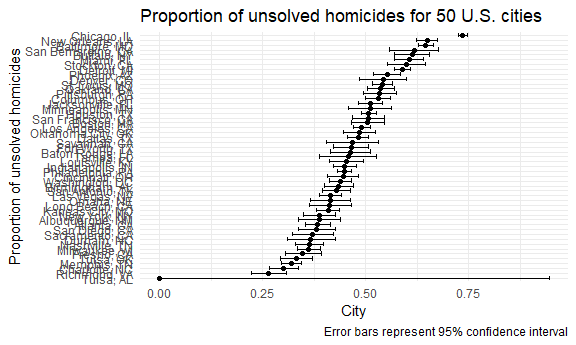
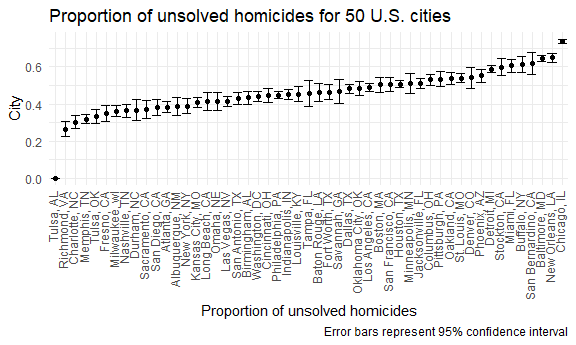
minor change to problem 2

diff --git a/p8105_hw5_js6177.md b/p8105_hw5_js6177.md
@@ -194,13 +194,19 @@ I use list columns to get estimated proportions and CIs for each city. I
 first nest the `total` and `unsolved` columns in `table` and then map it
 to the function I defined above.
 
+By the warning message, I check the data for Tulsa, AL, which only has
+one killing in total and zero unsolved case, so the Chi-squared
+approximation may be incorrect. Therefore, I mutate the confidence
+interval for this specific city accordingly.
+
 ``` r
 prop_df =
   nest(table, data = total:unsolved) %>% 
   mutate(unsolved_data = map(.$data, prop_ci)) %>%
   unnest(unsolved_data) %>% 
   select(-data) %>% 
-  rename(conf_low = conf.low, conf_high = conf.high)
+  rename(conf_low = conf.low, conf_high = conf.high) %>% 
+  mutate(conf_high = replace(conf_high, city_state == "Tulsa, AL", 0))
 ```
 
     ## Warning in prop.test(data$unsolved, data$total): Chi-squared approximation may
@@ -217,11 +223,11 @@ prop_df %>%
   ggplot(aes(x = city_state, y = estimate))+
   geom_point()+
   geom_errorbar(aes(ymin = conf_low, ymax = conf_high))+
-  coord_flip()+
   labs(title = "Proportion of unsolved homicides for 50 U.S. cities", 
        x = "Proportion of unsolved homicides", 
        y = "City", 
-       caption = "Error bars represent 95% confidence interval")
+       caption = "Error bars represent 95% confidence interval") +
+  theme(axis.text.x = element_text(angle = 90, vjust = 0.2, hjust = 1))
 ```
 
 <img src="p8105_hw5_js6177_files/figure-gfm/unnamed-chunk-11-1.png" width="90%" />
